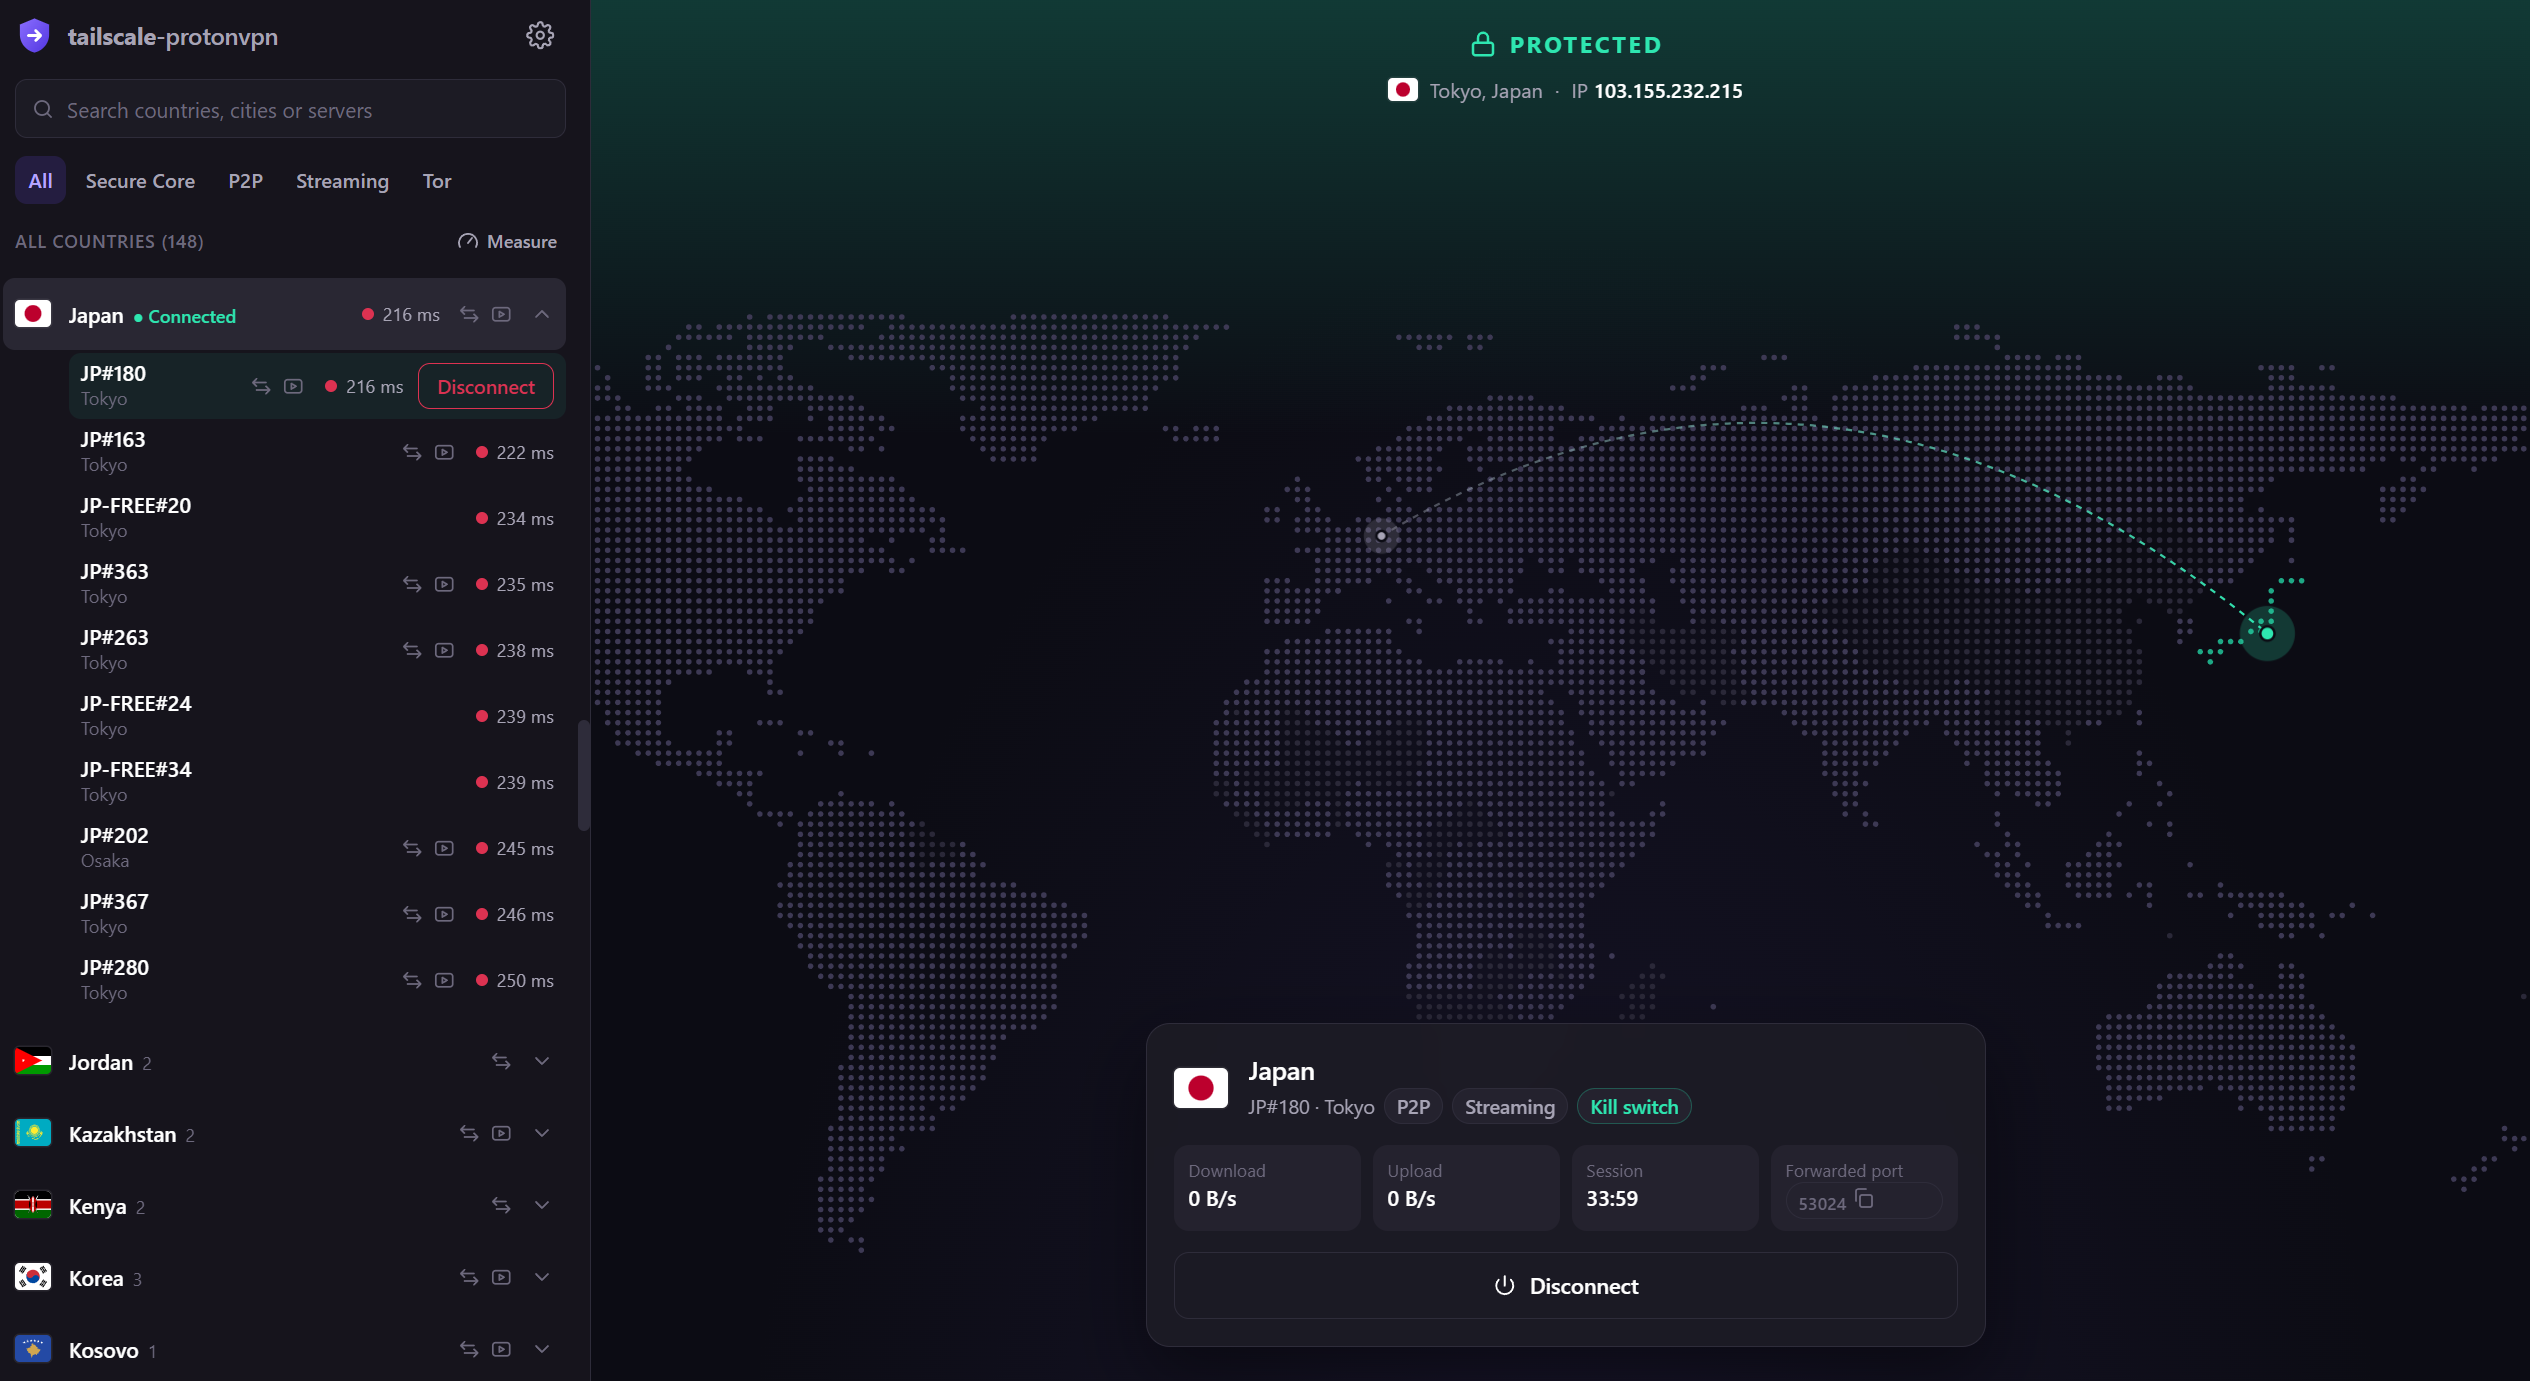
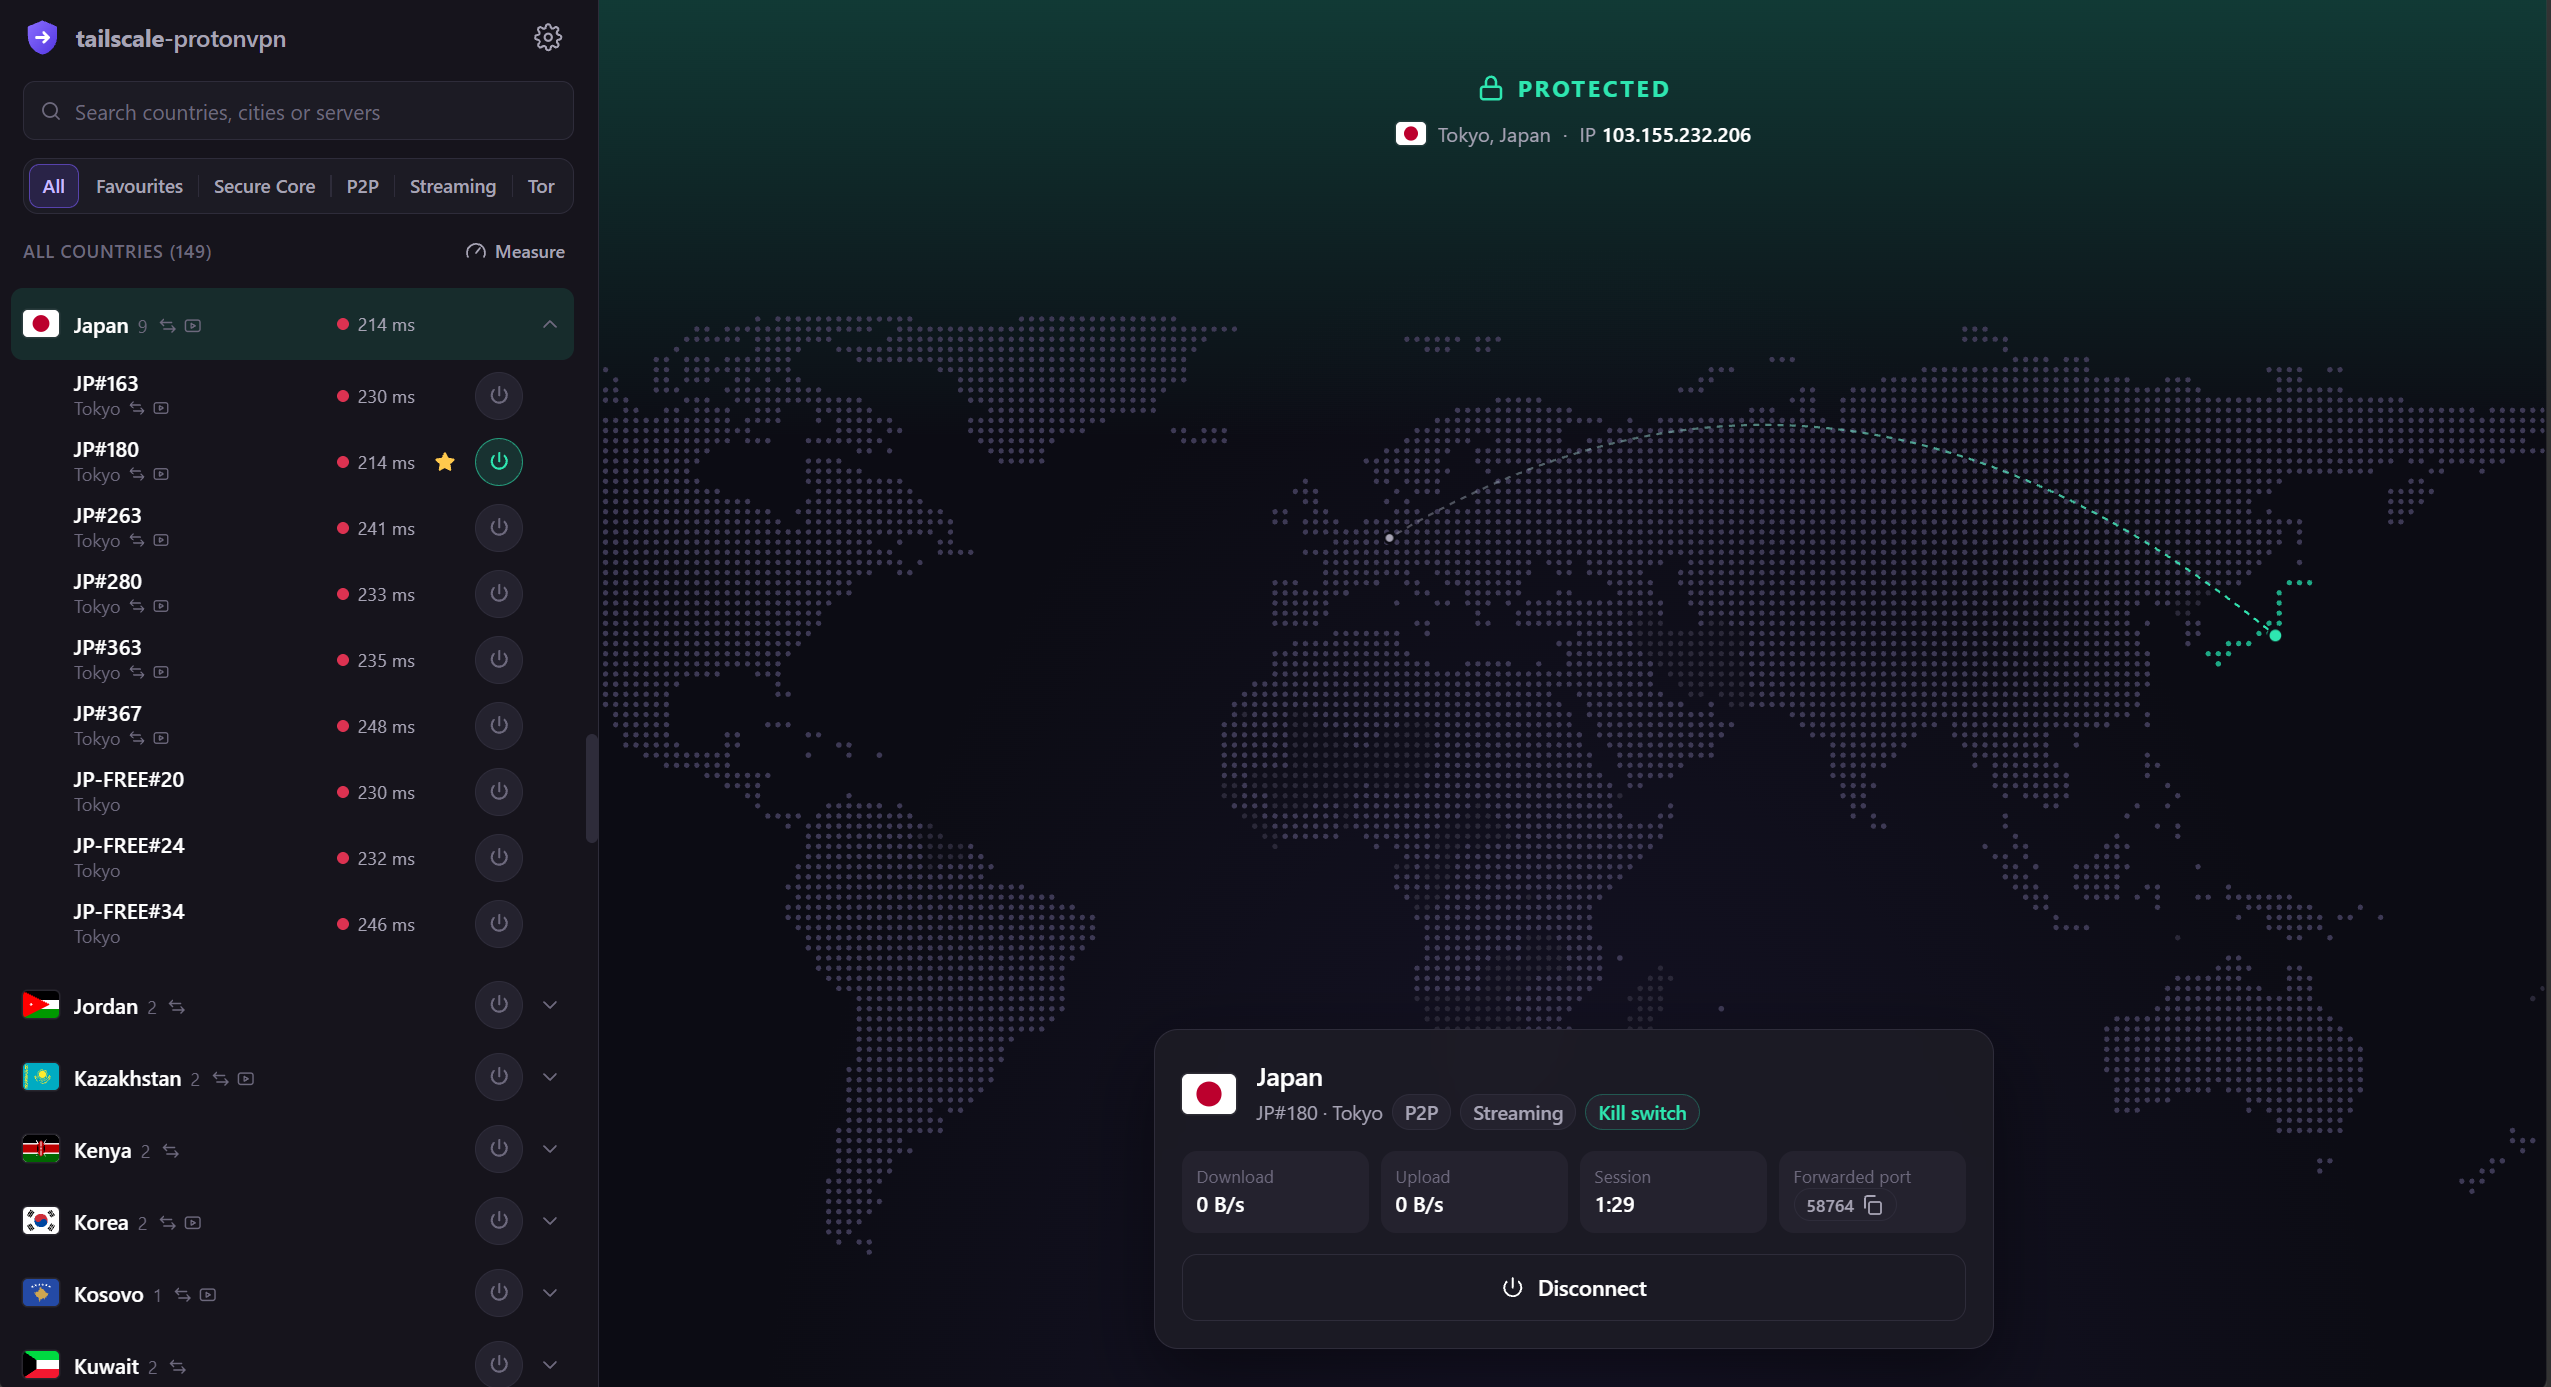
docs: update screenshot and add disclaimer

diff --git a/README.md b/README.md
@@ -1,6 +1,7 @@
 # tailscale-protonvpn
 
-[Tailscale's Mullvad exit nodes](https://tailscale.com/kb/1258/mullvad-exit-nodes), but with ProtonVPN.
+[Tailscale's Mullvad exit nodes](https://tailscale.com/kb/1258/mullvad-exit-nodes), but with ProtonVPN
+(not affiliated with Proton or Tailscale).
 Turn any Linux server into a Tailscale exit node that routes through ProtonVPN, so you can pick it on any
 of your devices and stay connected to your tailnet the whole time. No separate VPN app fighting with
 Tailscale for the network.
@@ -16,7 +17,8 @@ Tailscale for the network.
 
 - **Web dashboard**: see at a glance whether you're protected and which IP you exit from, browse
   servers on an interactive world map, filter by Secure Core / P2P / Streaming / Tor, measure
-  latency, and connect to the fastest server with one click.
+  latency, star favourite countries and servers (synced across your devices), and connect to the
+  fastest server with one click.
 - **Kill switch**: if the tunnel drops, exit-node traffic is blocked instead of leaking from the
   server's real IP. It's in place at boot before Tailscale starts. IPv6 can't bypass the VPN.
 - **Port forwarding** (NAT-PMP on P2P servers), auto-renewed. Forward it to the server itself or
